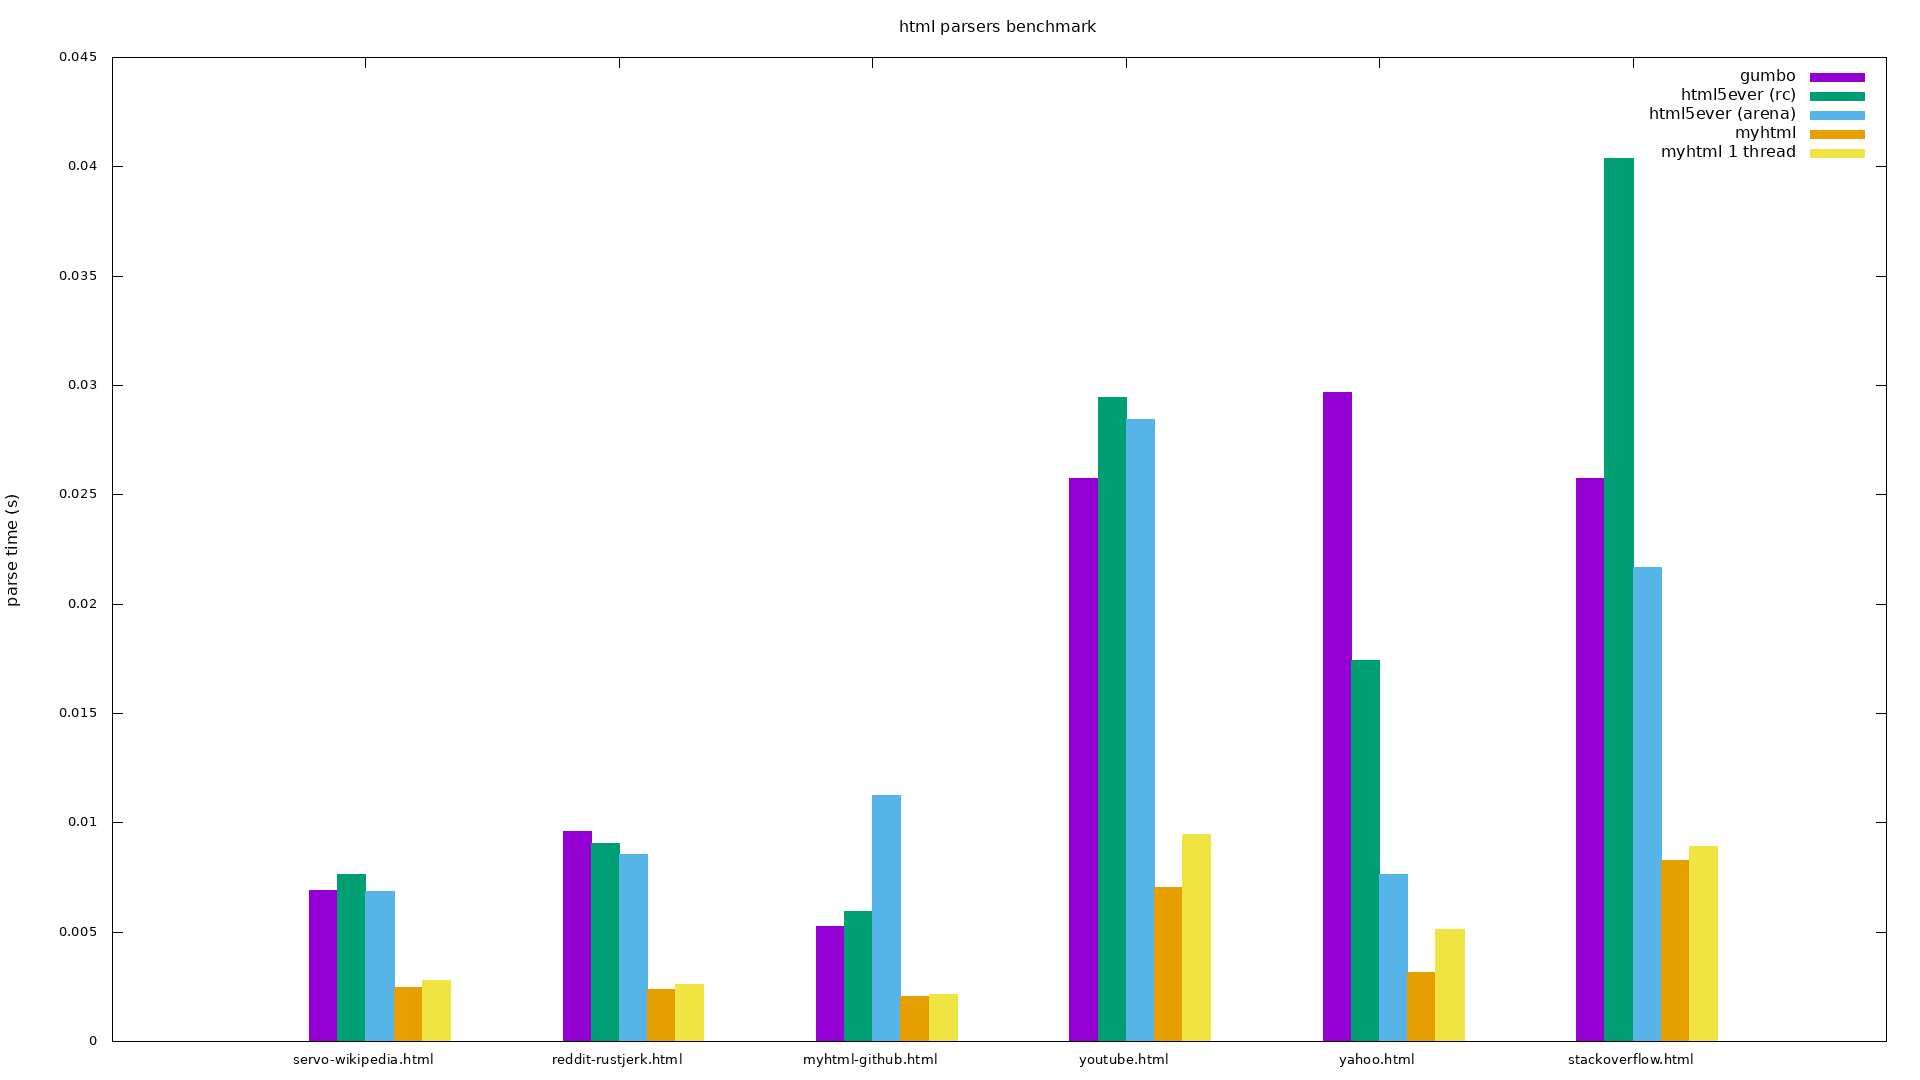
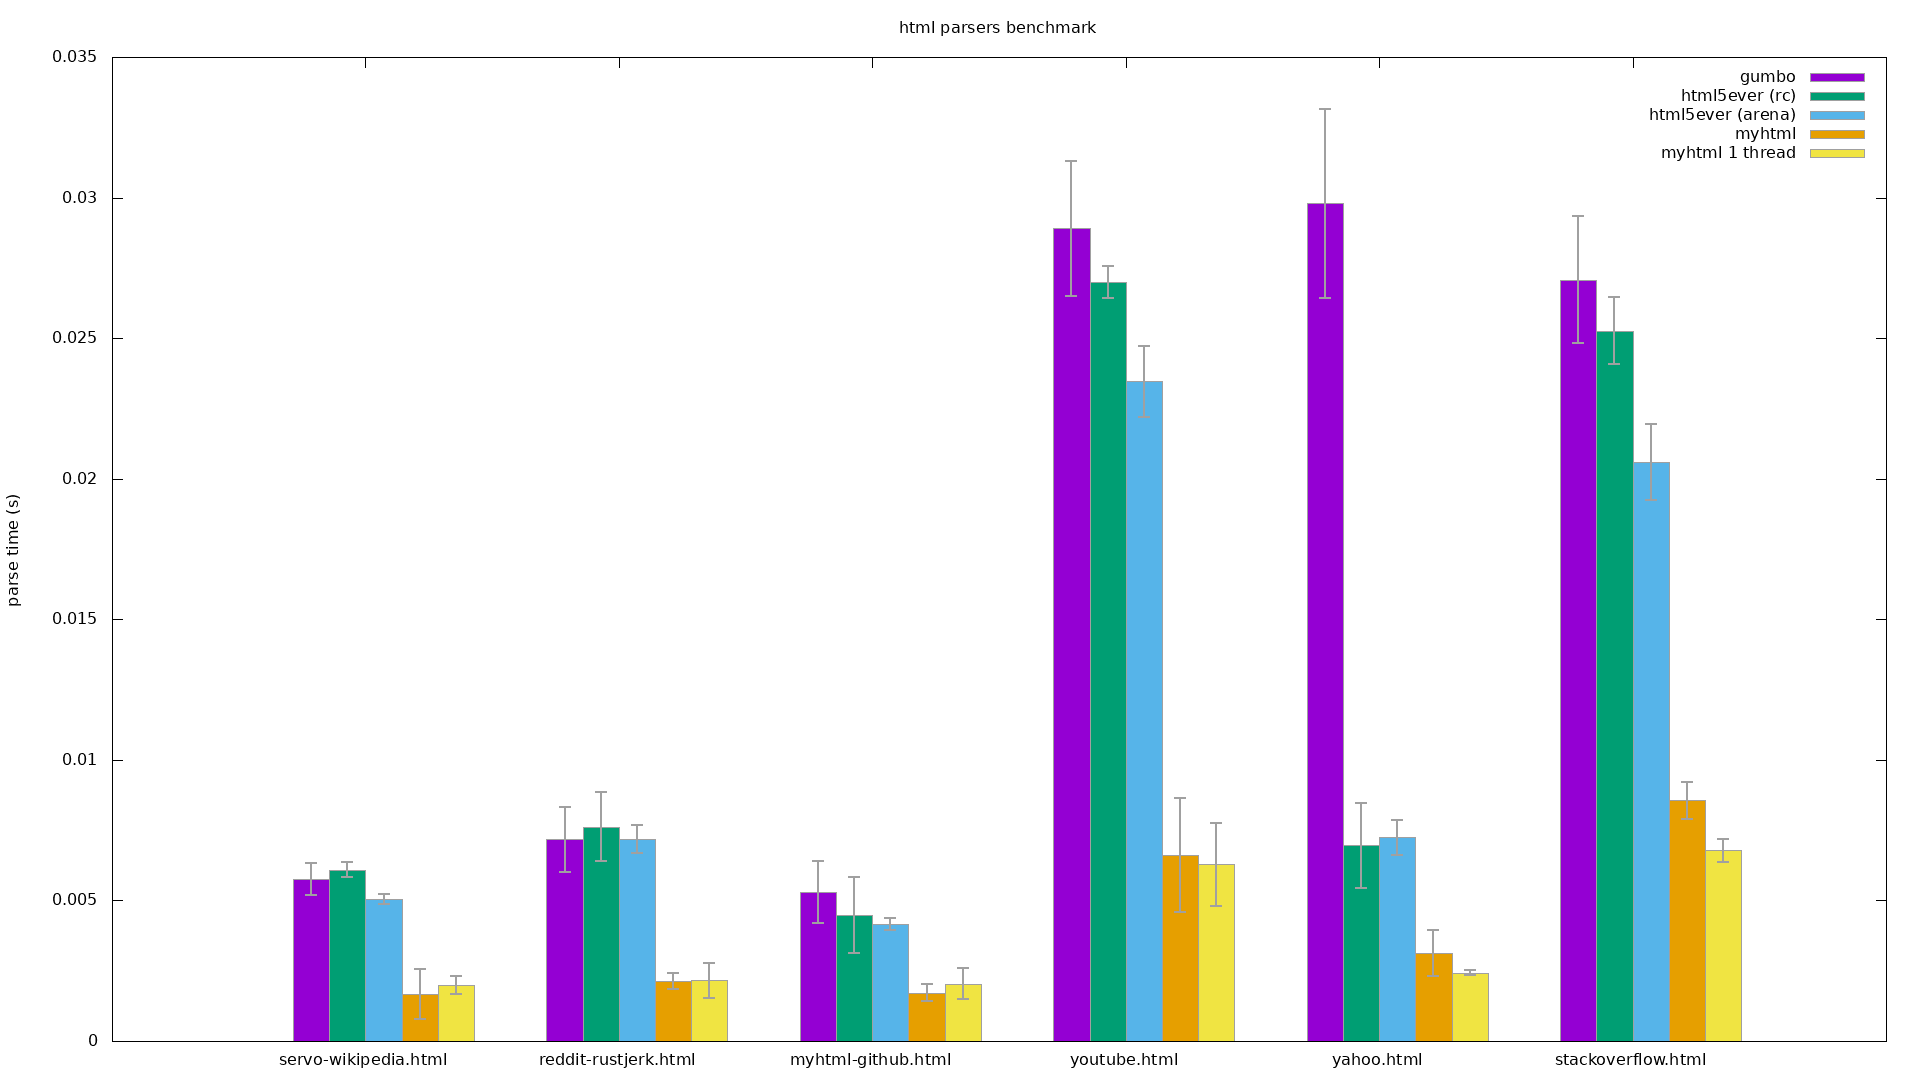
make benchmarks more scientific

diff --git a/benchmark/work.c b/benchmark/work.c
@@ -17,6 +17,10 @@
 */
 
 #include "work.h"
+#include <math.h>
+#include <stdlib.h>
+
+#define NUM_ITERATIONS 101
 
 struct benchmark_res_html {
     char  *html;
@@ -55,10 +59,37 @@ struct benchmark_res_html benchmark_load_html_file(const char* filename)
     return res;
 }
 
+int double_cmp(const void* a, const void* b)
+{
+    int double_a = * ( (double*) a );
+    int double_b = * ( (double*) b );
+    if ( double_a < double_b ) return -1;
+    else if ( double_a > double_b ) return 1;
+    else return 0;
+}
+
+double mean(const double* a, size_t size) {
+    double sum = 0;
+    for (size_t i = 0; i < size; ++i)
+        sum += a[i];
+    return sum / size;
+}
+
+double stddev(const double* a, size_t size) {
+    double m = mean(a, size);
+    double res = 0;
+    for (size_t i = 0; i < size; ++i)
+        res += (a[i] - m) * (a[i] - m);
+    return sqrt(res / size);
+}
+
 void benchmark_work_fork(const char *filepath, const char *filename, benchmark_work_callback_f callback, FILE *out_fh)
 {
     struct benchmark_res_html res = benchmark_load_html_file(filepath);
 
+    double iteration_times[NUM_ITERATIONS];
+
+    // measure memory usage on the first iteration
     size_t mem_start    = proc_stat_getCurrentRSS();
     uint64_t time_start = myhtml_hperf_clock();
 
@@ -67,12 +98,31 @@ void benchmark_work_fork(const char *filepath, const char *filename, benchmark_w
     uint64_t time_end = myhtml_hperf_clock();
     size_t mem_end    = proc_stat_getPeakRSS();
 
+    iteration_times[0] = myhtml_absolute_difference(time_start, time_end);
+    long long mem_used = mem_end - mem_start;
+
+    // run NUM_ITERATIONS - 1 iterations
+    for (int i = 1; i < NUM_ITERATIONS; ++i) {
+        uint64_t time_start = myhtml_hperf_clock();
+
+        callback(filename, res.html, res.size);
+
+        uint64_t time_end = myhtml_hperf_clock();
+
+        double work_time = myhtml_absolute_difference(time_start, time_end);
+
+        iteration_times[i] = work_time;
+    }
+
     free(res.html);
 
-    long long mem_used = mem_end - mem_start;
-    double work_time = myhtml_absolute_difference(time_start, time_end);
+    qsort(iteration_times, NUM_ITERATIONS, sizeof(double), double_cmp);
 
-    fprintf(out_fh, "\"%s\";%zu;%0.5f;%lld\n", filename, res.size, work_time, mem_used);
+    double median_work_time = iteration_times[NUM_ITERATIONS / 2];
+    double stddev_work_time = stddev(iteration_times, NUM_ITERATIONS);
+
+    fprintf(out_fh, "\"%s\";%zu;%0.5f;%0.5f;%lld\n", filename, res.size,
+            median_work_time, stddev_work_time, mem_used);
 }
 
 void benchmark_work_readdir_fork(const char *dirpath, benchmark_work_callback_f callback, FILE *out_fh)
